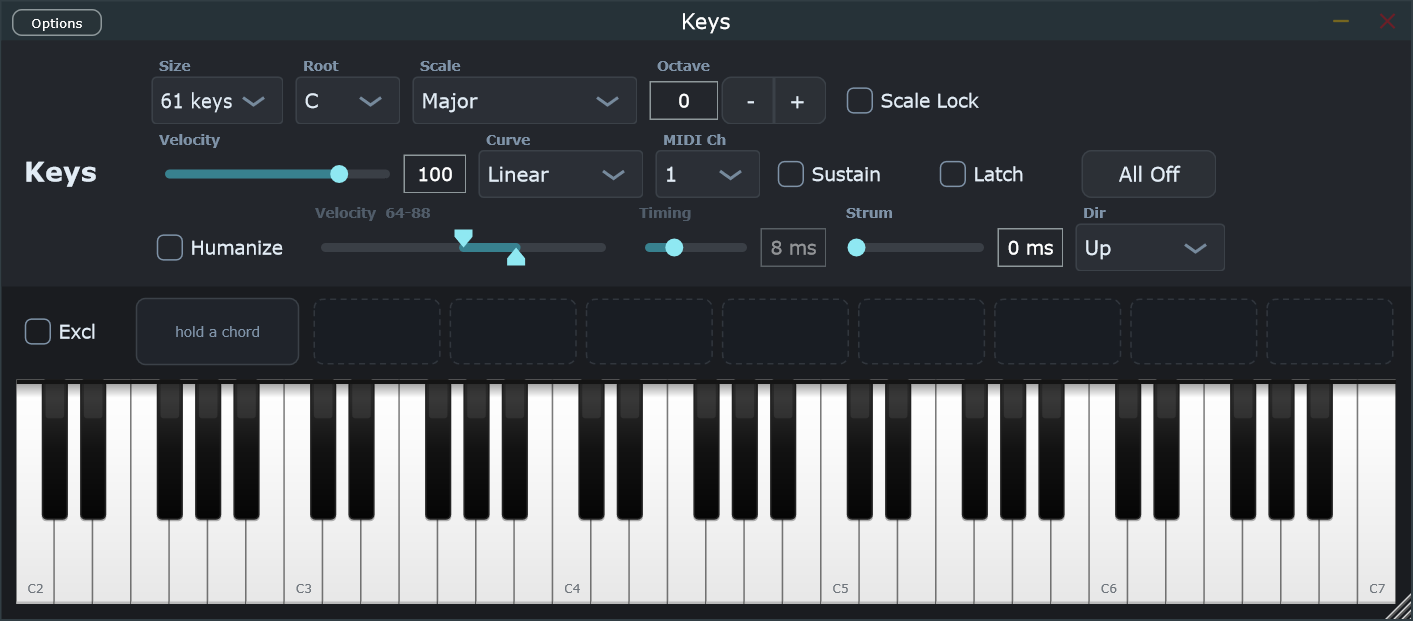
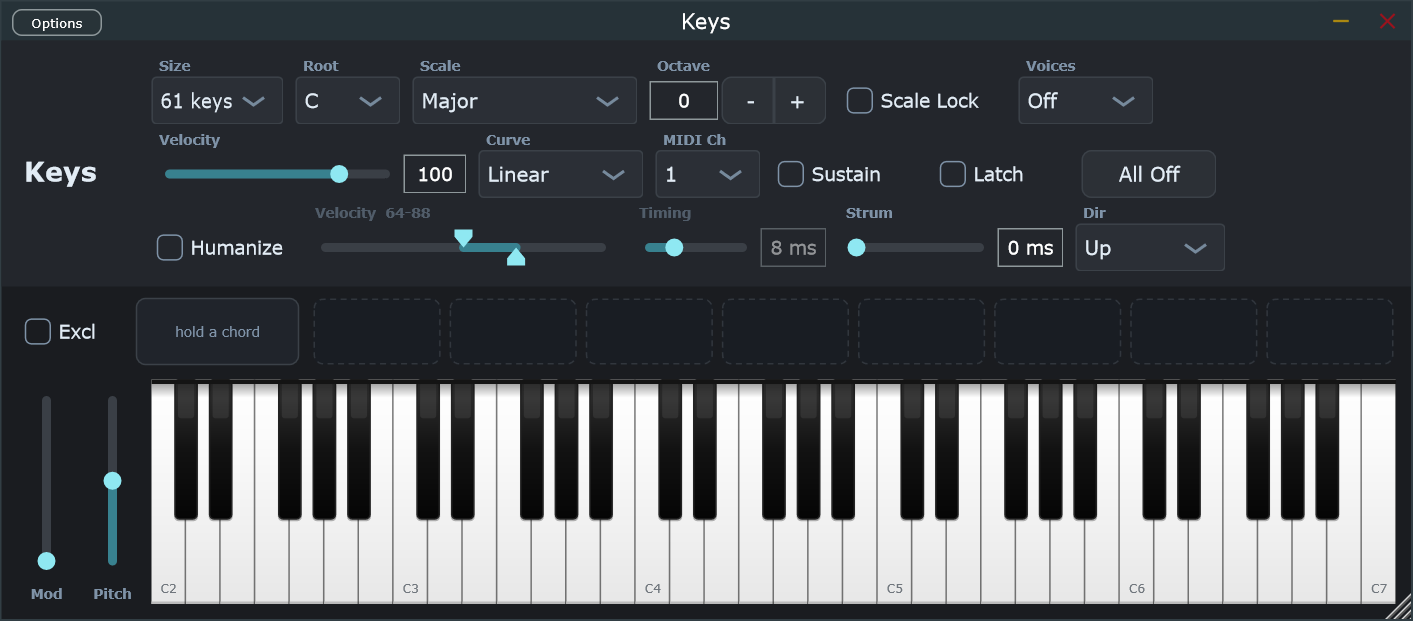
feat: Octavium sweep - Mod/Pitch wheels, polyphony, octave +/-5, curve on Humanize
From a full behavior comparison against Octavium's keyboard:
- Mod wheel (CC1) and Pitch bend wheels left of the keyboard. Transient (no params);
  Mod holds, Pitch springs back to centre on release. New sendCC / sendPitchBend.
- Polyphony limit: Voices param Off/1-8. The keyboard steals the oldest voice (FIFO
  voiceOrder) in refresh() when the sounding count exceeds the cap.
- Octave range widened to -5..+5 (was -3..+3), matching Octavium.
- The velocity Curve now shapes Humanize random velocities too (factored curved()
  helper shared by baseVelocity01 and noteOn), matching Octavium.
- Fix: changing MIDI channel now panics, so notes don't stick on the old channel
  (note-off would otherwise go to the new channel).
- Docs (README, CONTROLS, ARCHITECTURE) + screenshot updated.

Deliberately skipped from Octavium (out of scope / behind): right-click latch
(mouse-only contract), multi-window, the x0.79 velocity scaling (a bug that makes 127
unreachable), the vestigial Q "quantize" (Keys' Scale Lock is the real thing).

Changed region(s): [[0.0, 0.6119, 0.9653, 0.9791], [0.7162, 0.0918, 0.7785, 0.1836], [0.7785, 0.153, 0.8096, 0.1836]]

diff --git a/src/PluginEditor.cpp b/src/PluginEditor.cpp
@@ -1,7 +1,6 @@
 #include "PluginEditor.h"
 #include <okstudio/MouseOnly.h>
 #include <okstudio/Scales.h>
-#include <cmath>
 
 namespace keys
 {
@@ -63,12 +62,14 @@ KeysEditor::KeysEditor(KeysProcessor& p)
     addCombo(scaleBox, scaleLabel, "Scale", okstudio::scales::names(), "scale", scaleAtt);
     addCombo(channelBox, channelLabel, "MIDI Ch", channelItems(), "channel", channelAtt);
     addCombo(curveBox, curveLabel, "Curve", { "Soft", "Linear", "Hard" }, "curve", curveAtt);
+    addCombo(polyphonyBox, polyphonyLabel, "Voices",
+             { "Off", "1", "2", "3", "4", "5", "6", "7", "8" }, "polyphony", polyphonyAtt);
 
     styleLabel(octaveLabel, "Octave");
     addAndMakeVisible(octaveLabel);
     octaveSlider.setSliderStyle(juce::Slider::IncDecButtons);
     octaveSlider.setTextBoxStyle(juce::Slider::TextBoxLeft, false, 46, 26);
-    octaveSlider.setRange(-3, 3, 1);
+    octaveSlider.setRange(-5, 5, 1);
     addAndMakeVisible(octaveSlider);
     octaveAtt = std::make_unique<SliderAtt>(processor.apvts, "octave", octaveSlider);
 
@@ -135,6 +136,29 @@ KeysEditor::KeysEditor(KeysProcessor& p)
     chordStrumAtt = std::make_unique<SliderAtt>(processor.apvts, "chordStrum", chordStrumSlider);
 
     addCombo(chordStrumDirBox, chordStrumDirLabel, "Dir", { "Up", "Down", "Random" }, "chordStrumDir", chordStrumDirAtt);
+
+    // Performance wheels, left of the keyboard. Transient (no params/persistence): Mod
+    // holds its value (CC1); Pitch bend springs back to centre when you let go.
+    modWheel.setSliderStyle(juce::Slider::LinearVertical);
+    modWheel.setTextBoxStyle(juce::Slider::NoTextBox, false, 0, 0);
+    modWheel.setRange(0, 127, 1);
+    modWheel.setValue(0, juce::dontSendNotification);
+    modWheel.onValueChange = [this] { processor.sendCC(1, (int) modWheel.getValue()); };
+    addAndMakeVisible(modWheel);
+    styleLabel(modLabel, "Mod");
+    modLabel.setJustificationType(juce::Justification::centred);
+    addAndMakeVisible(modLabel);
+
+    pitchWheel.setSliderStyle(juce::Slider::LinearVertical);
+    pitchWheel.setTextBoxStyle(juce::Slider::NoTextBox, false, 0, 0);
+    pitchWheel.setRange(0, 16383, 1);
+    pitchWheel.setValue(8192, juce::dontSendNotification); // centre
+    pitchWheel.onValueChange = [this] { processor.sendPitchBend((int) pitchWheel.getValue()); };
+    pitchWheel.onDragEnd = [this] { pitchWheel.setValue(8192, juce::sendNotificationSync); };
+    addAndMakeVisible(pitchWheel);
+    styleLabel(pitchLabel, "Pitch");
+    pitchLabel.setJustificationType(juce::Justification::centred);
+    addAndMakeVisible(pitchLabel);
 
     panicButton.onClick = [this] { keyboard.panic(); };
     addAndMakeVisible(panicButton);
@@ -214,6 +238,20 @@ void KeysEditor::timerCallback()
                           (int) apvts.getRawParameterValue("scale")->load());
     keyboard.setSustain(apvts.getRawParameterValue("sustain")->load() > 0.5f);
     keyboard.setLatch(apvts.getRawParameterValue("latch")->load() > 0.5f);
+    keyboard.setPolyphony((int) apvts.getRawParameterValue("polyphony")->load()); // 0 = unlimited
+
+    // Changing MIDI channel while notes sound would strand them on the old channel
+    // (note-off goes to the new one), so panic on any channel change.
+    const int ch = (int) apvts.getRawParameterValue("channel")->load();
+    if (ch != lastChannel)
+    {
+        if (lastChannel >= 0)
+        {
+            processor.stopAllChordPads();
+            keyboard.panic();
+        }
+        lastChannel = ch;
+    }
 
     // Grey the humanize amounts out when Humanize is off, so their state reads at a glance.
     const bool hum = apvts.getRawParameterValue("humanize")->load() > 0.5f;
@@ -289,6 +327,7 @@ void KeysEditor::resized()
     cell(rowA, 150, scaleLabel, scaleBox);
     cell(rowA, 120, octaveLabel, octaveSlider);
     toggleCell(rowA, 110, scaleLockButton);
+    cell(rowA, 90, polyphonyLabel, polyphonyBox);
     if (updateButton.isVisible())
         updateButton.setBounds(rowA.removeFromLeft(150).withTrimmedTop(14));
 
@@ -304,6 +343,17 @@ void KeysEditor::resized()
     cell(rowC, 130, humanizeTimeLabel, humanizeTimeSlider);
     cell(rowC, 150, chordStrumLabel, chordStrumSlider);
     cell(rowC, 100, chordStrumDirLabel, chordStrumDirBox);
+
+    // Performance wheels occupy a narrow column at the left of the keyboard area.
+    auto wheels = kb.removeFromLeft(84);
+    kb.removeFromLeft(6);
+    auto modCol = wheels.removeFromLeft(40);
+    wheels.removeFromLeft(4);
+    auto pitchCol = wheels;
+    modLabel.setBounds(modCol.removeFromBottom(15));
+    modWheel.setBounds(modCol.reduced(3, 2));
+    pitchLabel.setBounds(pitchCol.removeFromBottom(15));
+    pitchWheel.setBounds(pitchCol.reduced(3, 2));
 
     keyboard.setBounds(kb);
 }

diff --git a/src/PluginProcessor.cpp b/src/PluginProcessor.cpp
@@ -33,8 +33,10 @@ juce::AudioProcessorValueTreeState::ParameterLayout KeysProcessor::createLayout(
     layout.add(std::make_unique<AudioParameterChoice>(ParameterID { "scale", 1 }, "Scale",
                                                        okstudio::scales::names(), 0));
     layout.add(std::make_unique<AudioParameterBool>(ParameterID { "scaleLock", 1 }, "Scale Lock", false));
-    layout.add(std::make_unique<AudioParameterInt>(ParameterID { "octave", 1 }, "Octave", -3, 3, 0));
+    layout.add(std::make_unique<AudioParameterInt>(ParameterID { "octave", 1 }, "Octave", -5, 5, 0));
     layout.add(std::make_unique<AudioParameterChoice>(ParameterID { "size", 1 }, "Keyboard Size", sizeNames(), 2));
+    layout.add(std::make_unique<AudioParameterChoice>(ParameterID { "polyphony", 1 }, "Polyphony",
+                                                      juce::StringArray { "Off", "1", "2", "3", "4", "5", "6", "7", "8" }, 0));
     layout.add(std::make_unique<AudioParameterChoice>(ParameterID { "channel", 1 }, "MIDI Channel", channelNames(), 0));
     layout.add(std::make_unique<AudioParameterInt>(ParameterID { "velocity", 1 }, "Velocity", 1, 127, 100));
     layout.add(std::make_unique<AudioParameterChoice>(ParameterID { "curve", 1 }, "Velocity Curve",
@@ -69,16 +71,21 @@ int KeysProcessor::octaveShift() const
     return (int) apvts.getRawParameterValue("octave")->load();
 }
 
-float KeysProcessor::baseVelocity01() const
+float KeysProcessor::curved(float pos01) const
 {
-    const float v = apvts.getRawParameterValue("velocity")->load();
-    const float pos = juce::jlimit(0.0f, 1.0f, (v - 1.0f) / 126.0f);
+    const float pos = juce::jlimit(0.0f, 1.0f, pos01);
     switch ((int) apvts.getRawParameterValue("curve")->load())
     {
         case 0:  return std::pow(pos, 0.6f); // Soft: easier to reach high velocities
         case 2:  return std::pow(pos, 1.7f); // Hard: leans quiet until you push
         default: return pos;                 // Linear
     }
+}
+
+float KeysProcessor::baseVelocity01() const
+{
+    const float v = apvts.getRawParameterValue("velocity")->load();
+    return curved((v - 1.0f) / 126.0f);
 }
 
 bool KeysProcessor::chordPadActive(int i) const
@@ -181,7 +188,8 @@ void KeysProcessor::noteOn(int midiNote, float velocity01, double delaySeconds)
         const int a = (int) apvts.getRawParameterValue("humanizeVelMin")->load();
         const int b = (int) apvts.getRawParameterValue("humanizeVelMax")->load();
         const int lo = juce::jmin(a, b), hi = juce::jmax(a, b);
-        velocity01 = (float) rng.nextInt(juce::Range<int>(lo, hi + 1)) / 127.0f;
+        const int rnd = rng.nextInt(juce::Range<int>(lo, hi + 1));
+        velocity01 = curved((float) (rnd - 1) / 126.0f); // same curve as the fixed velocity
 
         const float spreadMs = apvts.getRawParameterValue("humanizeTime")->load();
         if (spreadMs > 0.0f)
@@ -211,6 +219,20 @@ void KeysProcessor::allNotesOff()
         m.setTimeStamp(t);
         collector.addMessageToQueue(m);
     }
+}
+
+void KeysProcessor::sendCC(int controller, int value)
+{
+    auto m = juce::MidiMessage::controllerEvent(midiChannel(), controller, juce::jlimit(0, 127, value));
+    m.setTimeStamp(nowSeconds());
+    collector.addMessageToQueue(m);
+}
+
+void KeysProcessor::sendPitchBend(int value14)
+{
+    auto m = juce::MidiMessage::pitchWheel(midiChannel(), juce::jlimit(0, 16383, value14));
+    m.setTimeStamp(nowSeconds());
+    collector.addMessageToQueue(m);
 }
 
 void KeysProcessor::prepareToPlay(double sampleRate, int)

diff --git a/src/ui/PianoKeyboard.cpp b/src/ui/PianoKeyboard.cpp
@@ -65,11 +65,20 @@ void PianoKeyboard::setLatch(bool on)
     latch = on;
 }
 
+void PianoKeyboard::setPolyphony(int cap)
+{
+    if (cap == polyphonyCap)
+        return;
+    polyphonyCap = cap;
+    refresh(); // lowering the cap steals oldest voices immediately
+}
+
 void PianoKeyboard::panic()
 {
     pressed.clear();
     latched.clear();
     sustained.clear();
+    voiceOrder.clear();
     dragDrawn = -1;
     refresh();
     processor.allNotesOff(); // belt-and-braces across all channels
@@ -159,6 +168,27 @@ void PianoKeyboard::refresh()
     want.insert(latched.begin(), latched.end());
     want.insert(sustained.begin(), sustained.end());
 
+    // Polyphony cap: steal the oldest sounding voices (FIFO) so the total fits. Stealing
+    // removes them from the source sets so they don't come straight back next refresh.
+    if (polyphonyCap > 0 && (int) want.size() > polyphonyCap)
+    {
+        for (const int d : voiceOrder) // oldest first
+        {
+            if ((int) want.size() <= polyphonyCap)
+                break;
+            if (want.erase(d) > 0)
+            {
+                pressed.erase(d);
+                latched.erase(d);
+                sustained.erase(d);
+            }
+        }
+        // Any still over are brand-new notes not yet in voiceOrder (a big chord added at
+        // once); drop the highest-pitched drawn notes until it fits, keeping the lowest.
+        while ((int) want.size() > polyphonyCap)
+            want.erase(std::prev(want.end()));
+    }
+
     for (auto it = sounding.begin(); it != sounding.end();)
     {
         if (want.find(it->first) == want.end())
@@ -182,6 +212,18 @@ void PianoKeyboard::refresh()
             sounding[drawn] = out;
         }
     }
+
+    // Rebuild the FIFO voice order: keep still-sounding notes in their existing order,
+    // then append any newly-sounding ones.
+    std::vector<int> next;
+    next.reserve(sounding.size());
+    for (const int d : voiceOrder)
+        if (sounding.count(d) > 0)
+            next.push_back(d);
+    for (const auto& kv : sounding)
+        if (std::find(next.begin(), next.end(), kv.first) == next.end())
+            next.push_back(kv.first);
+    voiceOrder.swap(next);
 
     repaint();
 }

diff --git a/src/PluginEditor.h b/src/PluginEditor.h
@@ -35,10 +35,12 @@ private:
     PianoKeyboard keyboard;
     ChordPads chordPads;
 
-    juce::ComboBox sizeBox, rootBox, scaleBox, channelBox, curveBox, chordStrumDirBox;
-    juce::Label sizeLabel, rootLabel, scaleLabel, channelLabel, curveLabel, chordStrumDirLabel;
+    juce::ComboBox sizeBox, rootBox, scaleBox, channelBox, curveBox, chordStrumDirBox, polyphonyBox;
+    juce::Label sizeLabel, rootLabel, scaleLabel, channelLabel, curveLabel, chordStrumDirLabel, polyphonyLabel;
     juce::Slider velocitySlider, octaveSlider, chordStrumSlider;
     juce::Label velocityLabel, octaveLabel, chordStrumLabel;
+    juce::Slider modWheel, pitchWheel;  // transient performance wheels (no persistence)
+    juce::Label modLabel, pitchLabel;
 
     juce::ToggleButton scaleLockButton { "Scale Lock" };
     juce::ToggleButton sustainButton { "Sustain" };
@@ -51,12 +53,13 @@ private:
     juce::Slider humanizeVelSlider, humanizeTimeSlider; // velocity is a two-value range
     juce::Label humanizeVelLabel, humanizeTimeLabel;
 
-    std::unique_ptr<ComboAtt> sizeAtt, rootAtt, scaleAtt, channelAtt, curveAtt, chordStrumDirAtt;
+    std::unique_ptr<ComboAtt> sizeAtt, rootAtt, scaleAtt, channelAtt, curveAtt, chordStrumDirAtt, polyphonyAtt;
     std::unique_ptr<SliderAtt> velocityAtt, octaveAtt, humanizeTimeAtt, chordStrumAtt;
     std::unique_ptr<ButtonAtt> scaleLockAtt, sustainAtt, latchAtt, humanizeAtt, chordExclusiveAtt;
 
     okstudio::updater::Config updaterConfig;
     okstudio::updater::UpdateInfo pendingUpdate;
+    int lastChannel = -1; // to panic on MIDI-channel change (avoids notes stuck on the old channel)
 
     JUCE_DECLARE_NON_COPYABLE_WITH_LEAK_DETECTOR(KeysEditor)
 };

diff --git a/src/ui/PianoKeyboard.h b/src/ui/PianoKeyboard.h
@@ -33,6 +33,7 @@ public:
     void setScaleLock(bool on, int rootPitchClass, int scaleIndex);
     void setSustain(bool on);
     void setLatch(bool on);
+    void setPolyphony(int cap); // 0 = unlimited, else steal oldest beyond `cap` voices
     void panic(); // stop everything
 
     // The MIDI notes currently sounding (post scale-lock + octave), sorted, for chord capture.
@@ -59,13 +60,15 @@ private:
     bool scaleLock = false;
     int rootPc = 0, scaleIndex = 0;
     bool sustain = false, latch = false;
+    int polyphonyCap = 0; // 0 = unlimited
 
     std::vector<Key> keys;
     float keysTop = 0.0f; // y of the top of the keybed (keys anchored to the bottom)
     std::set<int> pressed;      // drawn notes under the active mouse gesture
     std::set<int> latched;      // drawn notes toggled on
     std::set<int> sustained;    // drawn notes captured by the sustain pedal
-    std::map<int, int> sounding; // drawn note -> output note currently on
+    std::map<int, int> sounding;  // drawn note -> output note currently on
+    std::vector<int> voiceOrder;  // drawn notes in the order they started sounding (FIFO, for stealing)
     int dragDrawn = -1;
 
     JUCE_DECLARE_NON_COPYABLE_WITH_LEAK_DETECTOR(PianoKeyboard)

diff --git a/src/PluginProcessor.h b/src/PluginProcessor.h
@@ -45,6 +45,8 @@ public:
     void noteOn(int midiNote, float velocity01, double delaySeconds = 0.0);
     void noteOff(int midiNote);
     void allNotesOff();
+    void sendCC(int controller, int value); // e.g. mod wheel = CC1
+    void sendPitchBend(int value14);         // 0..16383, centre 8192
 
     // Live settings read by the editor / keyboard widget.
     int midiChannel() const;   // 1..16
@@ -74,6 +76,7 @@ private:
     static juce::AudioProcessorValueTreeState::ParameterLayout createLayout();
 
     void stopChordPad(int i);
+    float curved(float pos01) const; // shape a 0..1 velocity position by the Curve param
 
     juce::MidiMessageCollector collector; // thread-safe UI -> audio message queue
     double currentSampleRate = 44100.0;

diff --git a/docs/ARCHITECTURE.md b/docs/ARCHITECTURE.md
@@ -45,7 +45,9 @@ sets of **drawn** key numbers:
 `sounding` (drawn note → the output MIDI note currently on), and emits exactly the
 delta: note-offs for keys that left `want`, note-ons for keys that entered it. Every
 gesture mutates the sets then calls `refresh()`, so notes never double-fire or stick,
-and panic is just "clear all three, refresh".
+and panic is just "clear all three, refresh". When a polyphony limit is set, `refresh()`
+first steals the oldest voices (FIFO `voiceOrder`) until `want` fits the cap. Changing
+MIDI channel panics, so a note can't stick on the channel it was played on.
 
 ## Note resolution: snap then transpose, remembered
 
@@ -77,9 +79,11 @@ over 12 candidate roots and scores each against a template library — root mand
 ## Parameters and state
 
 All settings are `AudioProcessorValueTreeState` parameters (`size`, `root`, `scale`,
-`scaleLock`, `octave`, `channel`, `velocity`, `curve`, `sustain`, `latch`, the Humanize
-set `humanize` / `humanizeVelMin` / `humanizeVelMax` / `humanizeTime`, and the chord-pad
-settings `chordExclusive` / `chordStrum` / `chordStrumDir`). The editor binds controls
+`scaleLock`, `octave`, `channel`, `velocity`, `curve`, `polyphony`, `sustain`, `latch`,
+the Humanize set `humanize` / `humanizeVelMin` / `humanizeVelMax` / `humanizeTime`, and
+the chord-pad settings `chordExclusive` / `chordStrum` / `chordStrumDir`). The Mod and
+Pitch wheels are transient performance controls with no parameters (they don't persist);
+Pitch springs back to centre on release. The editor binds controls
 with attachments — except the two-handle velocity range slider, which has no attachment
 (two values) and is synced to its two params by hand. A 30 Hz timer pushes derived
 config into the keyboard and the live chord into the pads. `getStateInformation` /

diff --git a/docs/CONTROLS.md b/docs/CONTROLS.md
@@ -14,6 +14,10 @@ Nothing needs the keyboard, a right-click, a double-click, or a modifier key.
 Chords come from Latch or Sustain, below — a single mouse can't hold several keys at
 once, so those are how you stack notes.
 
+To the **left of the keyboard** are two performance wheels: **Mod** sends CC1 and stays
+where you leave it; **Pitch** bends and springs back to centre when you let go. Both are
+transient (they don't save with the session) and send on the current MIDI channel.
+
 ## Top bar
 
 | Control | Type | What it does |
@@ -22,7 +26,8 @@ once, so those are how you stack notes.
 | **Root** | dropdown | Tonic used by Scale Lock (C … B) |
 | **Scale** | dropdown | Scale used by Scale Lock (Major, Natural/Harmonic/Melodic Minor, the modes, pentatonics, Blues, Whole Tone, Chromatic) |
 | **Scale Lock** | toggle | On: each played note snaps to the nearest note in (Root, Scale); out-of-scale keys are dimmed so you see the shape. You cannot play a wrong note. |
-| **Octave** | inc/dec | Transpose the whole keyboard, -3..+3 octaves. Click the arrows or scroll. |
+| **Octave** | inc/dec | Transpose the whole keyboard, -5..+5 octaves. Click the arrows or scroll. |
+| **Voices** | dropdown | Polyphony limit: **Off** (unlimited) or **1–8** notes. Playing past the limit steals the oldest note. |
 | **Velocity** | slider | Base note velocity (1–127), used when Humanize is off. Click or scroll. |
 | **Curve** | dropdown | Shapes the velocity response: **Soft** (reach high velocities easily), **Linear**, **Hard** (stays quiet until you push) |
 | **MIDI Ch** | dropdown | Output channel, 1–16 |

diff --git a/README.md b/README.md
@@ -38,9 +38,11 @@ on-screen toggles, not modifier keys, on purpose.
 | **Size** | 25 / 49 / 61 / 73 / 76 / 88 keys |
 | **Root** + **Scale** | The key and scale used by Scale Lock |
 | **Scale Lock** | Snap every played note to the nearest note in (Root, Scale) — you can't hit a wrong note. Out-of-scale keys are dimmed. |
-| **Octave** | Transpose the whole keyboard by -3..+3 octaves |
+| **Octave** | Transpose the whole keyboard by -5..+5 octaves |
 | **Velocity** + **Curve** | Note velocity, shaped by a Soft / Linear / Hard response |
 | **MIDI Ch** | Output channel, 1–16 |
+| **Voices** | Polyphony limit: Off (unlimited) or 1–8 notes, stealing the oldest |
+| **Mod / Pitch wheels** | Left of the keyboard: Mod sends CC1 and holds; Pitch bends and springs back to centre |
 | **Sustain** | Hold notes after release (pedal) |
 | **Latch** | Click to toggle notes on/off and hold them |
 | **Humanize** | Random velocity within a Min/Max range + micro-timing, so chords feel played |

diff --git a/CHANGELOG.md b/CHANGELOG.md
@@ -14,7 +14,10 @@ All notable changes to Keys are documented here. Format follows
   on-screen toggles, not modifier keys.
 - **Scale Lock**: snap played notes to the nearest note in a chosen root and scale;
   out-of-scale keys dimmed.
-- Octave shift (-3..+3), velocity with Soft / Linear / Hard curve, MIDI channel 1–16.
+- Octave shift (-5..+5), velocity with Soft / Linear / Hard curve, MIDI channel 1–16.
+- **Mod wheel** (CC1) and **Pitch bend** wheels left of the keyboard; the pitch wheel
+  springs back to centre when released.
+- **Polyphony** limit (Off / 1–8 voices) with oldest-note voice stealing.
 - **Humanize**: each note gets a random velocity within a Min/Max range plus a
   micro-timing offset, an on-screen toggle, so latched or dragged chords feel played
   rather than quantized. With the pedal down, a glide leaves a sustained trail.
